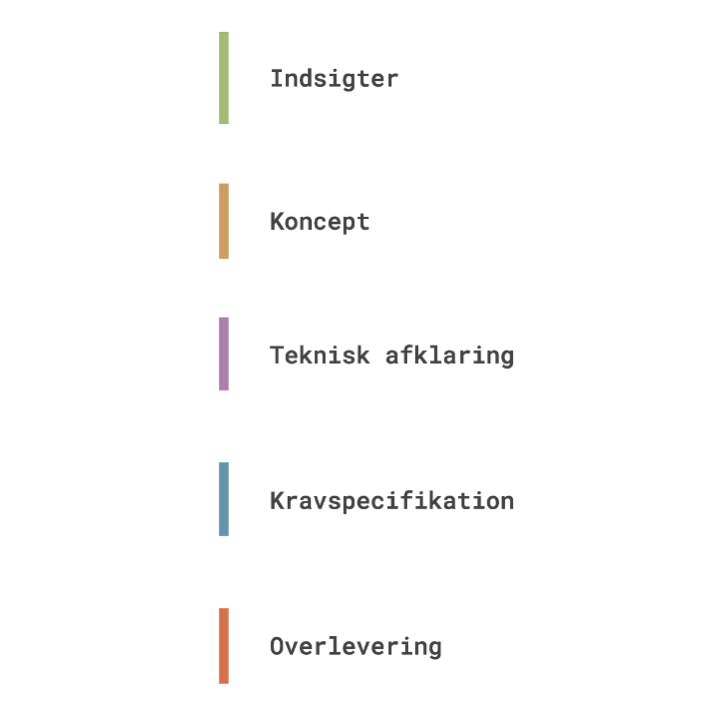
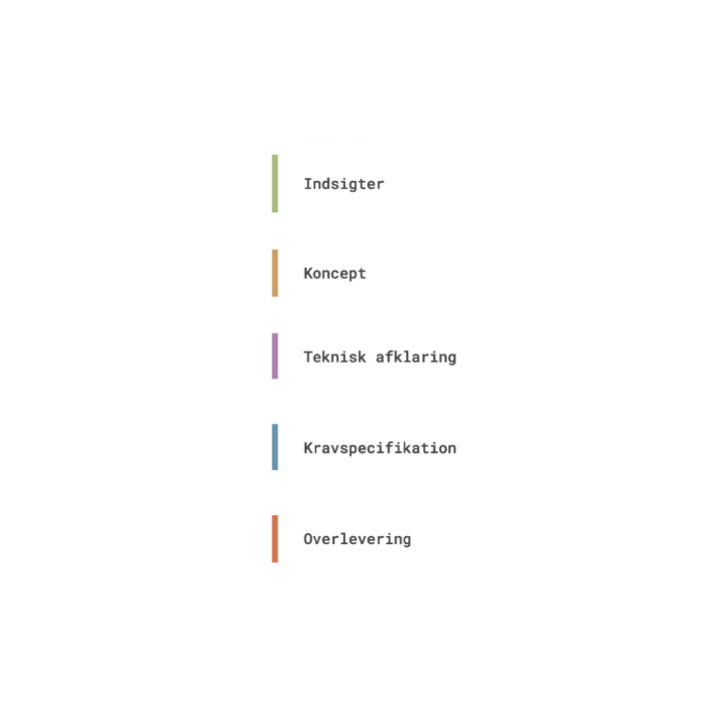
Kode-opdatering, d. 26/2 2021

diff --git a/stylesheet.css b/stylesheet.css
@@ -29,12 +29,12 @@
     position: relative;
     left: 25%;
     top: 20%;
-    background-image:url(images/Clarification-icon.png);
+    background-image:url(images/Clarification\ Process-icon.png);
     background-size: cover;
     border-radius: 50%;
 }
 
-.the-5-phases-steps-image {
+.settle-clarification-process-image {
     display: grid;
     size: relative;
     height: 75%;
@@ -42,7 +42,21 @@
     position: relative;
     left: 25%;
     top: 20%;
-    background-image:url(images/The\ 5\ Phases\ Steps\ Image.png);
+    background-image:url(images/Settle\ Clarification\ Process-image.png);
+    background-size: cover;
+    background-position: center;
+    border-radius: 50%;
+}
+
+.the-5-phases-icon {
+    display: grid;
+    size: relative;
+    height: 75%;
+    width: 75%;
+    position: relative;
+    left: 25%;
+    top: 20%;
+    background-image:url(images/The\ 5\ Phases-icon.png);
     background-size: cover;
     border-radius: 50%;
 }
@@ -167,7 +181,7 @@
 .text-element-1 {
     position: relative;
     size: relative;
-    font-family: 'Source Code Pro', monospace;
+    font-family: 'Fira Code', monospace;
     font-weight: normal;
     font-size: 130%;
     left: 1%;
@@ -208,7 +222,7 @@
 .text-element-2 {
     position: relative;
     size: relative;
-    font-family: 'Source Code Pro', monospace;
+    font-family: 'Fira Code', monospace;
     font-weight: bold;
     font-size: 250%;
     left: 1%;
@@ -220,7 +234,7 @@
 .text-element-3 {
     position: relative;
     size: relative;
-    font-family: 'Source Code Pro', monospace;
+    font-family: 'Fira Code', monospace;
     font-weight: normal;
     font-size: 130%;
     left: 1%;
@@ -282,10 +296,36 @@
     border: solid rgb(180, 197, 136);
 }
 
+.button-3{
+    display: grid;
+    size: relative;
+    width: 90%;
+    height: 3.5%;
+    position: relative;
+    top: 7.5%;
+    left: 50%;
+    background-color: rgb(255, 255, 255);
+    transition: 0.25s;
+    border: solid rgb(180, 197, 136);
+}
+
+.button-3:hover{
+    display: grid;
+    size: relative;
+    width: 90%;
+    height: 3.5%;
+    position: relative;
+    top: 7.5%;
+    left: 45%;
+    background-color: rgb(255, 255, 255);
+    transition: 0.25s;
+    border: solid rgb(180, 197, 136);
+}
+
 .button-link-element-1 {
     position: relative;
     size: relative;
-    font-family: 'Source Code Pro', monospace;
+    font-family: 'Fira Code', monospace;
     text-align: center;
     color: rgb(45, 96, 97);
     text-decoration: none;
@@ -297,7 +337,7 @@
 .button-link-element-2 {
     position: relative;
     size: relative;
-    font-family: 'Source Code Pro', monospace;
+    font-family: 'Fira Code', monospace;
     text-align: center;
     color: rgb(45, 96, 97);
     text-decoration: none;
@@ -309,7 +349,7 @@
 .button-link-element-3 {
     position: relative;
     size: relative;
-    font-family: 'Source Code Pro', monospace;
+    font-family: 'Fira Code', monospace;
     text-align: left;
     color: rgb(45, 96, 97);
     text-decoration: none;
@@ -324,7 +364,7 @@
     width: 15%;
     height: 150%;
     position: relative;
-    top: 100%;
+    top: 110%;
     left: 80%;
     background-image: url(images/Green\ Arrow.png);
     background-size: cover;
@@ -334,9 +374,9 @@
     display: grid;
     size: relative;
     width: 15%;
-    height: 190%;
+    height: 200%;
     position: relative;
-    top: 180%;
+    top: 190%;
     left: 80%;
     background-image: url(images/Green\ Arrow.png);
     background-size: cover;
@@ -348,7 +388,7 @@
     width: 15%;
     height: 150%;
     position: relative;
-    top: 80%;
+    top: 100%;
     left: 5%;
     background-image: url(images/Red\ Cross.png);
     background-size: cover;

diff --git a/afregn_dit_afklaringsforloeb.html b/afregn_dit_afklaringsforloeb.html
@@ -5,8 +5,7 @@
     <meta http-equiv="X-UA-Compatible" content="IE=edge">
     <meta name="viewport" content="width=device-width, initial-scale=1.0">
     <link rel="preconnect" href="https://fonts.gstatic.com">
-    <link href="https://fonts.googleapis.com/css2?family=Source+Code+Pro&display=swap" rel="stylesheet">
-    <link rel="preconnect" href="https://fonts.gstatic.com">   
+    <link href="https://fonts.googleapis.com/css2?family=Fira+Code&display=swap" rel="stylesheet">
     <link rel="stylesheet" href="stylesheet.css">
     <title>03 Afregn dit Afklaringsforløb</title>
 </head>
@@ -15,7 +14,7 @@
         <div class="header-index">
             
             <wrapper class="element-1">
-                <div class="clarification-process-icon">
+                <div class="settle-clarification-process-image">
                 </div>
             </wrapper>
             
@@ -32,13 +31,7 @@
         <div class="main-content-1">
 
             <wrapper class="element-1">
-                <div class="button-1">
-                    <div class=green-arrow-1></div>
-                    <a class="button-link-element-1" href="http://127.0.0.1:5500/de_5_faser.html">
-                        Næste <br> (De 5 Faser)
-                    </a>
-                </div>
-                <div class="button-2">
+                <div class="button-3">
                     <div class=red-cross></div>
                     <a class="button-link-element-2" href="https://www.houseofcode.io/">
                         Afbryd <br> (Tilbage til start side)

diff --git a/de_5_faser.html b/de_5_faser.html
@@ -5,8 +5,7 @@
     <meta http-equiv="X-UA-Compatible" content="IE=edge">
     <meta name="viewport" content="width=device-width, initial-scale=1.0">
     <link rel="preconnect" href="https://fonts.gstatic.com">
-    <link href="https://fonts.googleapis.com/css2?family=Source+Code+Pro&display=swap" rel="stylesheet">
-    <link rel="preconnect" href="https://fonts.gstatic.com">   
+    <link href="https://fonts.googleapis.com/css2?family=Fira+Code&display=swap" rel="stylesheet">
     <link rel="stylesheet" href="stylesheet.css">
     <title>02 De 5 Faser</title>
 </head>
@@ -15,7 +14,7 @@
         <div class="header-index">
             
             <wrapper class="element-1">
-                <div class="the-5-phases-steps-image">
+                <div class="the-5-phases-icon">
                 </div>
             </wrapper>
             

diff --git a/index.html b/index.html
@@ -5,8 +5,7 @@
     <meta http-equiv="X-UA-Compatible" content="IE=edge">
     <meta name="viewport" content="width=device-width, initial-scale=1.0">
     <link rel="preconnect" href="https://fonts.gstatic.com">
-    <link href="https://fonts.googleapis.com/css2?family=Source+Code+Pro&display=swap" rel="stylesheet">
-    <link rel="preconnect" href="https://fonts.gstatic.com">   
+    <link href="https://fonts.googleapis.com/css2?family=Fira+Code&display=swap" rel="stylesheet">
     <link rel="stylesheet" href="stylesheet.css">
     <title>01 Afklaringsforløbet</title>
 </head>

diff --git a/hashtagbecreative.html b/hashtagbecreative.html
@@ -5,8 +5,7 @@
     <meta http-equiv="X-UA-Compatible" content="IE=edge">
     <meta name="viewport" content="width=device-width, initial-scale=1.0">
     <link rel="preconnect" href="https://fonts.gstatic.com">
-    <link href="https://fonts.googleapis.com/css2?family=Source+Code+Pro&display=swap" rel="stylesheet">
-    <link rel="preconnect" href="https://fonts.gstatic.com">   
+    <link href="https://fonts.googleapis.com/css2?family=Fira+Code&display=swap" rel="stylesheet"> 
     <link rel="stylesheet" href="stylesheet.css">
     <title>02.2 #BeCreative</title>
 </head>

diff --git a/hashtagbetechnical.html b/hashtagbetechnical.html
@@ -5,8 +5,7 @@
     <meta http-equiv="X-UA-Compatible" content="IE=edge">
     <meta name="viewport" content="width=device-width, initial-scale=1.0">
     <link rel="preconnect" href="https://fonts.gstatic.com">
-    <link href="https://fonts.googleapis.com/css2?family=Source+Code+Pro&display=swap" rel="stylesheet">
-    <link rel="preconnect" href="https://fonts.gstatic.com">   
+    <link href="https://fonts.googleapis.com/css2?family=Fira+Code&display=swap" rel="stylesheet">
     <link rel="stylesheet" href="stylesheet.css">
     <title>02.3 #BeTechnical</title>
 </head>

diff --git a/hashtagbespecific.html b/hashtagbespecific.html
@@ -5,8 +5,7 @@
     <meta http-equiv="X-UA-Compatible" content="IE=edge">
     <meta name="viewport" content="width=device-width, initial-scale=1.0">
     <link rel="preconnect" href="https://fonts.gstatic.com">
-    <link href="https://fonts.googleapis.com/css2?family=Source+Code+Pro&display=swap" rel="stylesheet">
-    <link rel="preconnect" href="https://fonts.gstatic.com">   
+    <link href="https://fonts.googleapis.com/css2?family=Fira+Code&display=swap" rel="stylesheet">
     <link rel="stylesheet" href="stylesheet.css">
     <title>02.4 #BeSpecific</title>
 </head>

diff --git a/hashtagbecurious.html b/hashtagbecurious.html
@@ -5,8 +5,7 @@
     <meta http-equiv="X-UA-Compatible" content="IE=edge">
     <meta name="viewport" content="width=device-width, initial-scale=1.0">
     <link rel="preconnect" href="https://fonts.gstatic.com">
-    <link href="https://fonts.googleapis.com/css2?family=Source+Code+Pro&display=swap" rel="stylesheet">
-    <link rel="preconnect" href="https://fonts.gstatic.com">   
+    <link href="https://fonts.googleapis.com/css2?family=Fira+Code&display=swap" rel="stylesheet">
     <link rel="stylesheet" href="stylesheet.css">
     <title>02.1 #BeCurious</title>
 </head>

diff --git a/hashtagbeawsome.html b/hashtagbeawsome.html
@@ -5,8 +5,7 @@
     <meta http-equiv="X-UA-Compatible" content="IE=edge">
     <meta name="viewport" content="width=device-width, initial-scale=1.0">
     <link rel="preconnect" href="https://fonts.gstatic.com">
-    <link href="https://fonts.googleapis.com/css2?family=Source+Code+Pro&display=swap" rel="stylesheet">
-    <link rel="preconnect" href="https://fonts.gstatic.com">   
+    <link href="https://fonts.googleapis.com/css2?family=Fira+Code&display=swap" rel="stylesheet">
     <link rel="stylesheet" href="stylesheet.css">
     <title>02.5 #BeAwsome</title>
 </head>
